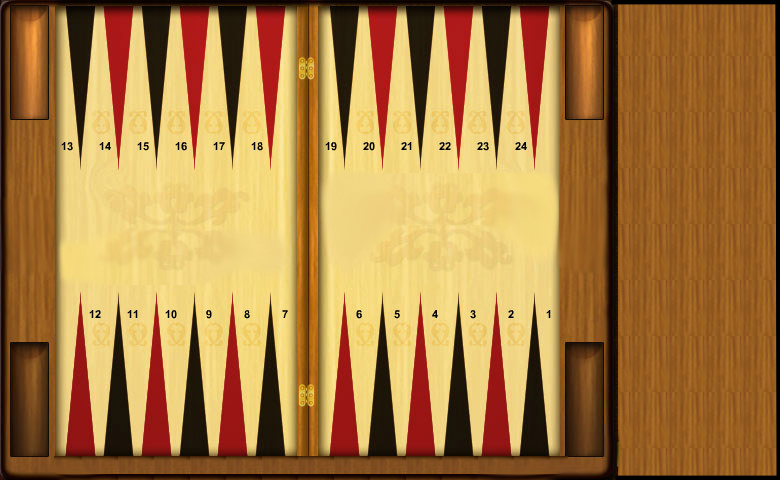
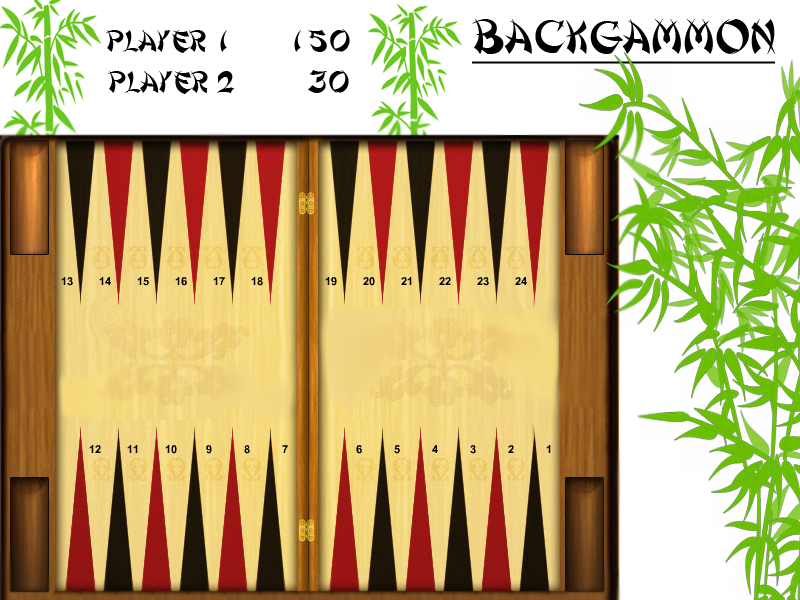
Avancement gui

diff --git a/src/gui.c b/src/gui.c
@@ -49,8 +49,35 @@ void display_init(SDisplay *display)
 	display->window_width = 800;
 	display->window_height = 600;
 	
+	// Initialisation du tableau de positions
+	int i;
+	display->positions[0].x = 525;
+	display->positions[0].y = 570;
+	
+	for( i=1 ; i<24 ; i++ )
+	{
+		display->positions[i].y = display->positions[i-1].y  ;
+		if( i<6 )
+			display->positions[i].x = display->positions[i-1].x - 38;
+		else if ( i==6 )
+			display->positions[i].x = display->positions[i-1].x - 74;
+		else if( i<12 )
+			display->positions[i].x = display->positions[i-1].x - 38;
+		else if( i==12 )
+		{
+			display->positions[i].x = display->positions[i-1].x ;
+			display->positions[i].y = 145;
+		}
+		else if( i<17 )
+			display->positions[i].x = display->positions[i-1].x + 38;
+		else if( i==17 )
+			display->positions[i].x=display->positions[i-1].x + 74;
+		else
+			display->positions[i].x=display->positions[i-1].x + 38;
+	}
+	
 	// Initialisation de la fenêtre
-	display->screen = SDL_SetVideoMode(780, 480, 32, SDL_HWSURFACE | SDL_DOUBLEBUF);
+	display->screen = SDL_SetVideoMode(800, 600, 32, SDL_HWSURFACE | SDL_DOUBLEBUF);
 	
 	if (display->screen == NULL) // Si l'ouverture a échoué, on écrit l'erreur et on arrête
 	{
@@ -73,10 +100,83 @@ void display_exit(SDisplay *display)
 	SDL_Quit();
 }
 
-void display_refresh(SDisplay* display)
+void display_clear(SDisplay *display)
 {
+	// Rechargement du background
+	char *temp_path = (char*)malloc(100*sizeof(char));
+	strcpy(temp_path, display->img_path);
+	strcat(temp_path, "background.png");
+	display->background = IMG_Load(temp_path);
+	free(temp_path);
+	
 	SDL_BlitSurface(display->background, NULL, display->screen, &(display->background_position));
 }
+	
+void display_refresh(SDisplay *display, SGameState *game)
+{
+	display_clear(display);
+	
+	// Affichage des pions
+	display_checkers(display, game);
+}
 
+void draw_checker(SDisplay *display, SDL_Rect position, int player)
+{
+	if( player==0 )
+	{
+		SDL_BlitSurface(display->black_checker, NULL,display->screen, &position);
+	}
+	else
+	{
+		SDL_BlitSurface(display->white_checker, NULL,display->screen, &position);
+	}
+}
 
+void display_checkers(SDisplay *display, SGameState *game)
+{
+	int i,j;
+	SDL_Rect new_pos;
+	
+	for( i=0 ; i<28; i++ )
+	{
+		for( j=0; j<game->zones[i].nb_checkers; j++)
+		{
+			new_pos.x = display->positions[i].x;
+			if( i<12)
+				new_pos.y = display->positions[i].y - j*20;
+			else
+				new_pos.y = display->positions[i].y + j*20;
+				
+			draw_checker(display,new_pos,game->zones[i].player);
+		}
+	}
+}
 
+SGameState* initPartie()
+{
+	SGameState *game = (SGameState*)malloc(sizeof(SGameState));
+	int i,j;
+	for(i=0;i<28;i++) game->zones[i].nb_checkers=0;
+	
+	game->zones[0].player=EPlayer1;
+	game->zones[0].nb_checkers=2;
+	game->zones[23].player=EPlayer2;
+	game->zones[23].nb_checkers=2;
+	
+	game->zones[11].player=EPlayer1;
+	game->zones[11].nb_checkers=5;
+	game->zones[12].player=EPlayer2;
+	game->zones[12].nb_checkers=5;
+	
+	game->zones[16].player=EPlayer1;
+	game->zones[16].nb_checkers=3;
+	game->zones[7].player=EPlayer2;
+	game->zones[7].nb_checkers=3;
+	
+	game->zones[18].player=EPlayer1;
+	game->zones[18].nb_checkers=5;
+	game->zones[5].player=EPlayer2;
+	game->zones[5].nb_checkers=5;
+	
+	return game;
+}

diff --git a/include/gui.h b/include/gui.h
@@ -2,7 +2,7 @@
 #include <SDL/SDL.h>
 
 #ifndef GUI_H
-	#define gui_H
+	#define GUI_H
 
 struct Display
 {
@@ -23,6 +23,8 @@ struct Display
 	// Taille par défaut de la fenêtre
 	int window_width;
 	int window_height;
+	
+	SDL_Rect positions[28]; // Tableau contenant la position de chaque flèche et des bars
 };
 
 typedef struct Display SDisplay;
@@ -33,10 +35,17 @@ void display_init(SDisplay *display);
 /* Libère les surfaces utilisées et quitte la SDL */
 void display_exit(SDisplay *display);
 
-/*void drawGame(SWindow *w, SZone zones[28]);
-void drawChecker(SWindow *w,SDL_Rect *position,SColor c);
-SColor checkerColor(EPlayer e);
-void initPartie(SZone *zones);*/
+/* Affiche les pions */
+void display_checkers(SDisplay *display, SGameState *game);
+
+/* Raffraichit l'affichage */
+void display_refresh(SDisplay *display, SGameState *game);
+
+/* Dessine un pion d'un joueur, à une position donnée */
+void draw_checker(SDisplay *display, SDL_Rect position, int player);
+
+/* Initialise la partie */
+SGameState* initPartie();
 
 #endif
 

diff --git a/src/main.c b/src/main.c
@@ -10,11 +10,14 @@ int main(int argc, char **argv)
 {
 	SDisplay display;
 	
+	SGameState *game = initPartie();
+	
 	int quit = 0;
 	SDL_Event event;
 	
 	display_init(&display);
-	
+		display_refresh(&display, game);
+		SDL_Flip(display.screen);
 	while (!quit) // Boucle principale
 	{
 		SDL_WaitEvent(&event);
@@ -24,8 +27,7 @@ int main(int argc, char **argv)
 				quit=1;
 				break;
 		}
-		display_refresh(&display);
-		SDL_Flip(display.screen);
+	
 		
 	}
 	
